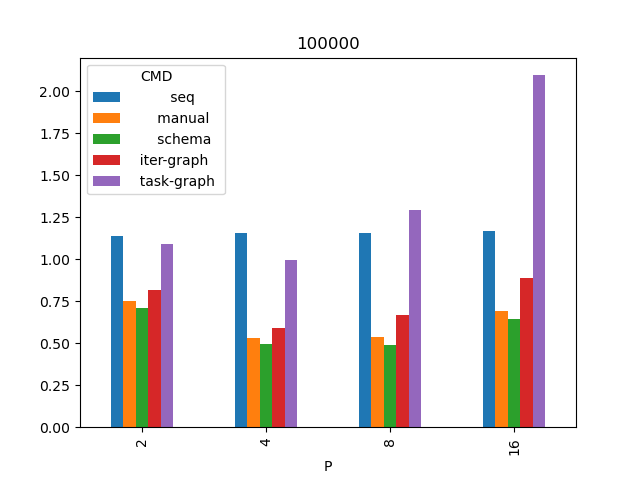
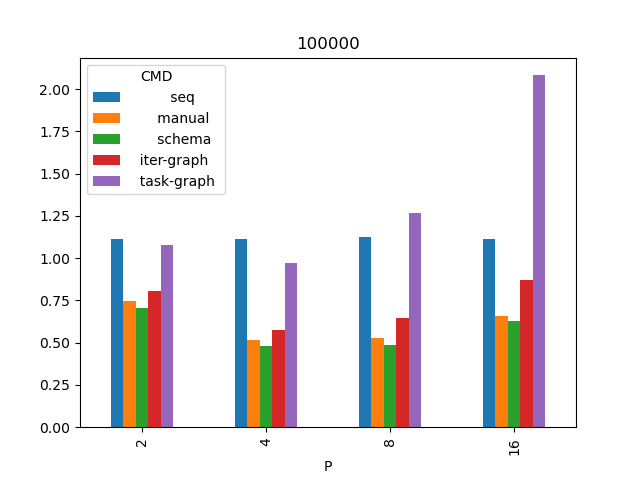
min

diff --git a/experiments/trial-v2/f.js b/experiments/trial-v2/f.js
@@ -9,7 +9,7 @@ export let P = process.env.P ? parseInt(process.env.P) : 4
 // если до 10 млн то 10 тыс итераций, а иначе 1 тыс
 // export let iters= process.env.ITERS ? parseInt(process.env.ITERS) : (DN < 10*1000*1000 ? 10000 : 1000)
 // ладно, не будем мудрить.
-export let iters= process.env.ITERS ? parseInt(process.env.ITERS) : 10000
+export let iters= process.env.ITERS ? parseInt(process.env.ITERS) : 1000
 
 // вычисление значений функции одного переменного по явной схеме
 // вход:

diff --git a/experiments/trial-v2/vis/mean.py b/experiments/trial-v2/vis/mean.py
@@ -8,7 +8,7 @@ print(df)
 #df2 = df["SECONDS"].mean()
 
 #df = df[ df["DN"] == 100000 ].drop( ["DN"],axis=1 )
-df2 = df.groupby( ["CMD","DN","P"] ).mean()
+df2 = df.groupby( ["CMD","DN","P"] ).min()
 #df2 = df.groupby( ["CMD","P"] ).mean() #.groupby( ["P"] )
 print(df2)
 df2.to_csv('mean.csv')

diff --git a/experiments/trial-v2/results-1000/README.md b/experiments/trial-v2/results-1000/README.md
@@ -13,10 +13,10 @@
 
 |   P |     b |            seq  |         manual  |         schema  |     iter-graph  |     task-graph  |
 |----:|------:|----------------:|----------------:|----------------:|----------------:|----------------:|
-|   2 | 50000 |         1.1375  |        0.752107 |        0.710748 |        0.81822  |        1.09025  |
-|   4 | 25000 |         1.15375 |        0.530763 |        0.494561 |        0.590199 |        0.998787 |
-|   8 | 12500 |         1.1565  |        0.538079 |        0.490182 |        0.668065 |        1.29175  |
-|  16 |  6250 |         1.16875 |        0.689188 |        0.641617 |        0.887447 |        2.0965   |
+|   2 | 50000 |           1.115 |        0.744489 |        0.70504  |        0.805449 |        1.079    |
+|   4 | 25000 |           1.114 |        0.518259 |        0.481991 |        0.57722  |        0.970135 |
+|   8 | 12500 |           1.125 |        0.526887 |        0.486867 |        0.643821 |        1.269    |
+|  16 |  6250 |           1.113 |        0.658226 |        0.627192 |        0.869366 |        2.082    |
 
 ![](100000.png)
 
@@ -30,10 +30,10 @@
 
 |   P |      b |            seq  |         manual  |         schema  |     iter-graph  |     task-graph  |
 |----:|-------:|----------------:|----------------:|----------------:|----------------:|----------------:|
-|   2 | 500000 |         11.234  |         6.45475 |         6.4345  |         6.63625 |         6.7585  |
-|   4 | 250000 |         11.5552 |         3.674   |         3.72075 |         3.83075 |         4.15375 |
-|   8 | 125000 |         11.397  |         2.8205  |         2.95575 |         3.27725 |         3.7505  |
-|  16 |  62500 |         11.4435 |         2.46575 |         2.738   |         2.8115  |         3.64075 |
+|   2 | 500000 |          11.164 |           6.401 |           6.393 |           6.557 |           6.714 |
+|   4 | 250000 |          11.471 |           3.605 |           3.652 |           3.752 |           4.133 |
+|   8 | 125000 |          11.219 |           2.688 |           2.794 |           3.142 |           3.665 |
+|  16 |  62500 |          11.287 |           2.449 |           2.626 |           2.786 |           3.624 |
 
 ![](1000000.png)
 
@@ -41,10 +41,10 @@
 
 |   P |       b |            seq  |         manual  |         schema  |     iter-graph  |     task-graph  |
 |----:|--------:|----------------:|----------------:|----------------:|----------------:|----------------:|
-|   2 | 5000000 |         114.424 |         60.6497 |         60.0652 |         62.032  |         62.3713 |
-|   4 | 2500000 |         112.756 |         31.3268 |         31.61   |         32.3073 |         32.245  |
-|   8 | 1250000 |         113.175 |         22.2578 |         21.6902 |         22.163  |         22.4262 |
-|  16 |  625000 |         112.122 |         18.202  |         18.6417 |         18.196  |         18.8615 |
+|   2 | 5000000 |         113.641 |          59.528 |          59.862 |          60.727 |          61.951 |
+|   4 | 2500000 |         110.956 |          31.044 |          31.305 |          32.043 |          32.093 |
+|   8 | 1250000 |         112.161 |          21.354 |          21.267 |          21.517 |          21.458 |
+|  16 |  625000 |         111.255 |          17.864 |          18.039 |          18.069 |          18.68  |
 
 ![](10000000.png)
 

diff --git a/experiments/trial-v2/results-10000/README.md b/experiments/trial-v2/results-10000/README.md
@@ -13,10 +13,10 @@
 
 |   P |     b |            seq  |         manual  |         schema  |     iter-graph  |     task-graph  |
 |----:|------:|----------------:|----------------:|----------------:|----------------:|----------------:|
-|   2 | 50000 |         11.535  |         6.49925 |         6.6575  |         6.9565  |         8.94575 |
-|   4 | 25000 |         11.279  |         3.9955  |         4.12375 |         4.34975 |         7.905   |
-|   8 | 12500 |         11.2468 |         3.58275 |         3.839   |         4.2485  |        10.161   |
-|  16 |  6250 |         11.3865 |         3.2525  |         3.86125 |         4.299   |        17.918   |
+|   2 | 50000 |          11.128 |           6.481 |           6.622 |           6.909 |           8.878 |
+|   4 | 25000 |          11.099 |           3.943 |           4.084 |           4.302 |           7.809 |
+|   8 | 12500 |          11.111 |           3.478 |           3.769 |           4.175 |          10.065 |
+|  16 |  6250 |          11.112 |           3.185 |           3.765 |           4.236 |          17.767 |
 
 
 ![](100000.png)
@@ -25,10 +25,10 @@
 
 |   P |      b |            seq  |         manual  |         schema  |     iter-graph  |     task-graph  |
 |----:|-------:|----------------:|----------------:|----------------:|----------------:|----------------:|
-|   2 | 500000 |         114.027 |         61.6668 |         63.468  |         63.5435 |         65.7597 |
-|   4 | 250000 |         114.232 |         35.2413 |         33.5005 |         34.983  |         37.684  |
-|   8 | 125000 |         112.555 |         22.8072 |         24.599  |         24.4232 |         33.0052 |
-|  16 |  62500 |         114.853 |         20.336  |         21.6435 |         21.9005 |         32.2013 |
+|   2 | 500000 |         112.066 |          61.004 |          62.757 |          62.694 |          64.201 |
+|   4 | 250000 |         111.725 |          32.735 |          33.163 |          33.607 |          37.38  |
+|   8 | 125000 |         110.927 |          22.131 |          23.744 |          23.179 |          31.764 |
+|  16 |  62500 |         114.53  |          19.84  |          21.252 |          21.567 |          32.051 |
 
 
 ![](1000000.png)
@@ -37,10 +37,10 @@
 
 |   P |       b |            seq  |         manual  |         schema  |     iter-graph  |     task-graph  |
 |----:|--------:|----------------:|----------------:|----------------:|----------------:|----------------:|
-|   2 | 5000000 |         1142.68 |         602.326 |         602.963 |         616.819 |         626.725 |
-|   4 | 2500000 |         1120.42 |         308.818 |         316.252 |         318.806 |         353.826 |
-|   8 | 1250000 |         1121.22 |         191.68  |         200.626 |         204.407 |         218.186 |
-|  16 |  625000 |         1152.07 |         203.422 |         174.389 |         171.333 |         190.85  |
+|   2 | 5000000 |         1133.58 |         601.199 |         598.208 |         611.905 |         613.205 |
+|   4 | 2500000 |         1108.32 |         308.327 |         314.07  |         315.138 |         324.004 |
+|   8 | 1250000 |         1111.7  |         190.562 |         190.744 |         193.418 |         216.742 |
+|  16 |  625000 |         1112.11 |         168.613 |         171.844 |         170.573 |         185.847 |
 
 ![](10000000.png)
 

diff --git a/experiments/trial-v2/README.md b/experiments/trial-v2/README.md
@@ -46,3 +46,5 @@ cd experiments/trial-v2
 * Дожидаемся завершения расчетов всех блоков
 * Введен параметр ITERS для управления количеством итераций.
 Повышение кол-ва итераций с 1000 до 10 тыс - привело к тому что manual стал работать быстрее чем schema.
+* Решено брать не среднее время по запускам, а лучшее. Потому что бывает 1 выплеск (машина чем-то еще занялась) и он портит картину.
+А лучшее - оно и есть лучшее и по отношению ко всем методам это честно.
